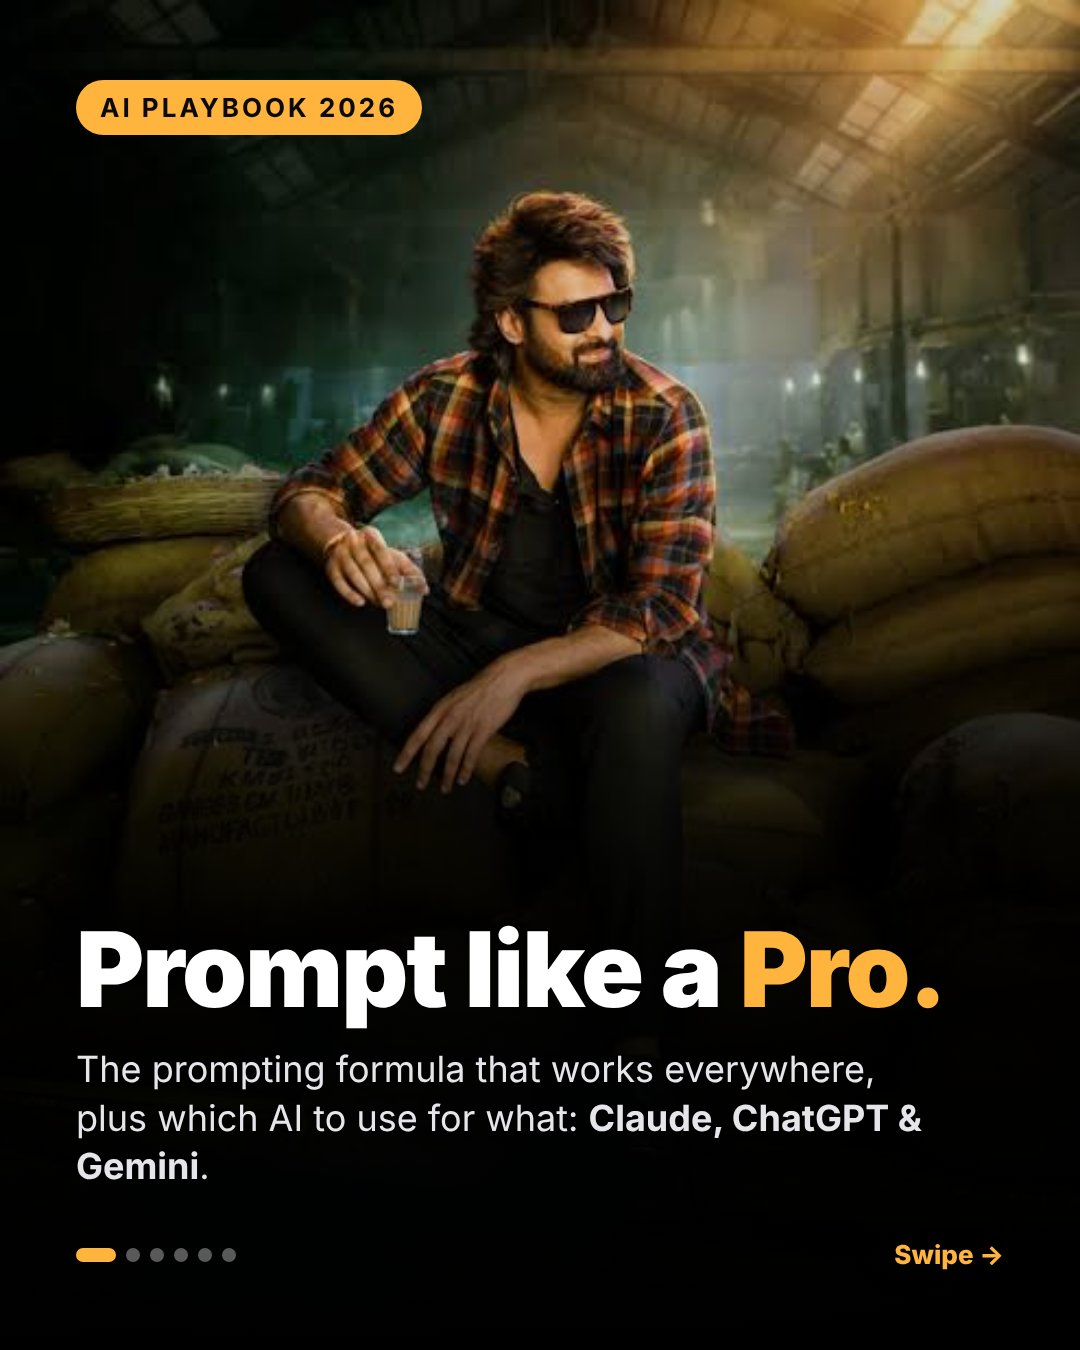
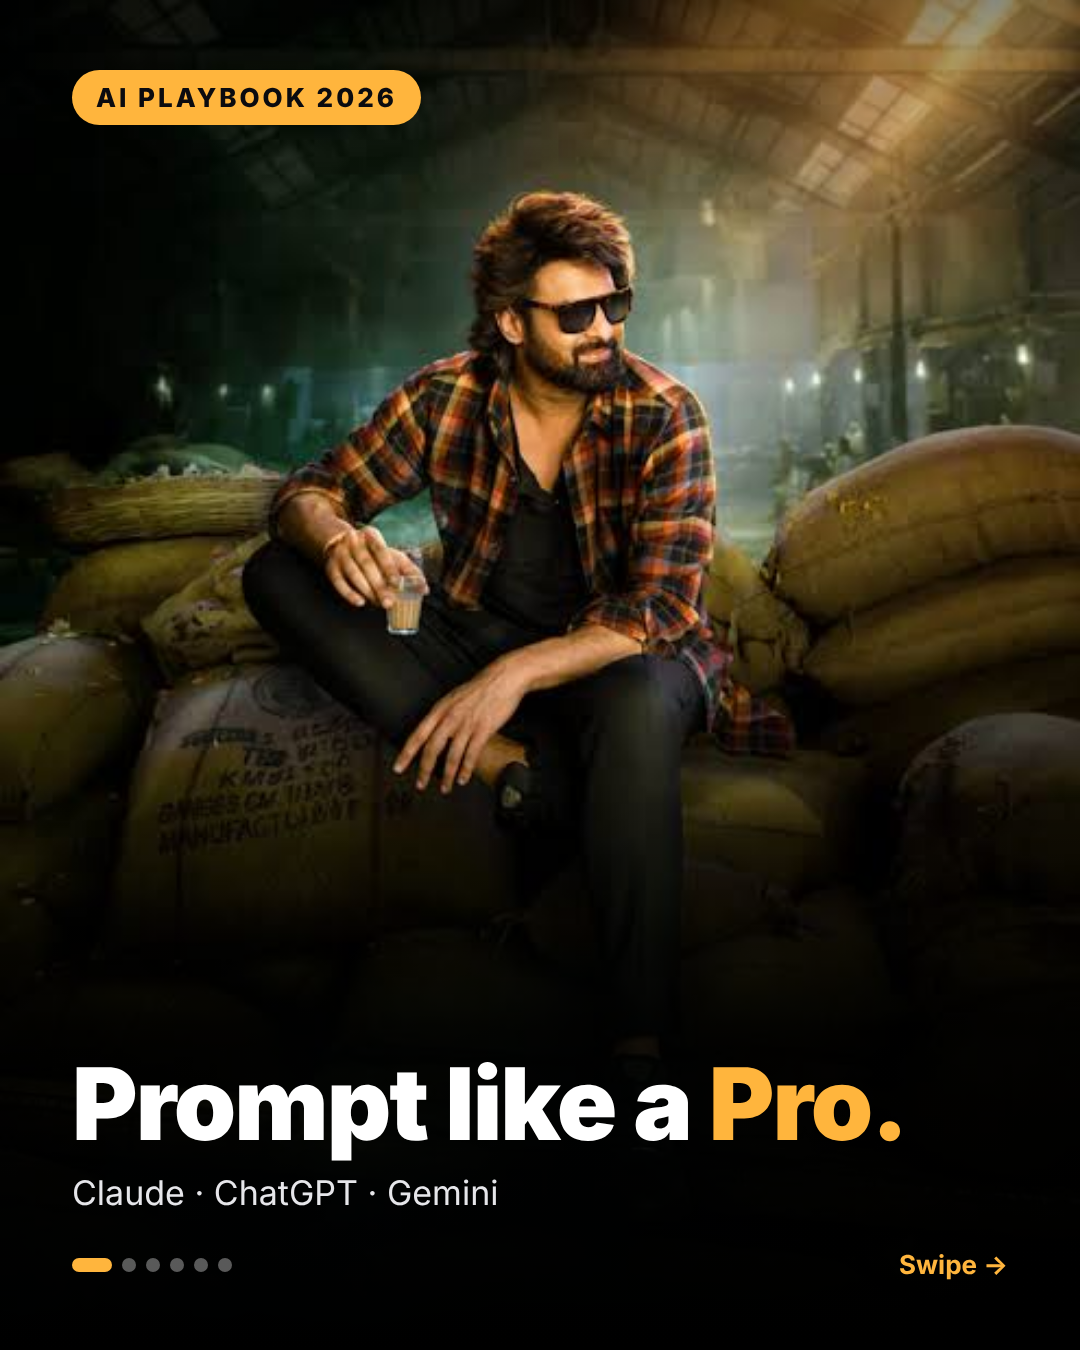
Carousel: shorten text and move it to the bottom so faces stay visible
Claude-Session: https://claude.ai/code/session_01WMA397VEfozkovtyzdFbRr

diff --git a/carousel/index.html b/carousel/index.html
@@ -10,181 +10,112 @@
   .deck { display: flex; flex-direction: column; align-items: center; gap: 40px; padding: 40px 0; }
   body.export .deck { padding: 0; gap: 0; }
 
-  .slide {
-    width: 1080px; height: 1350px; position: relative; overflow: hidden;
-    background-size: cover; background-position: center; background-color: #111;
-  }
-  .slide::before { content: ""; position: absolute; inset: 0; background: var(--shade); }
-  .inner { position: absolute; inset: 0; padding: 80px 76px; display: flex; flex-direction: column; }
+  .slide { width: 1080px; height: 1350px; position: relative; overflow: hidden;
+           background-size: cover; background-position: center; background-color: #111; }
+  /* Photo stays clear on top; only the bottom ~30% darkens for text */
+  .slide::before { content: ""; position: absolute; inset: 0;
+    background: linear-gradient(180deg, rgba(0,0,0,.45) 0%, rgba(0,0,0,0) 14%, rgba(0,0,0,0) 58%, rgba(0,0,0,.85) 76%, #000 100%); }
+  .inner { position: absolute; inset: 0; padding: 70px 72px; display: flex; flex-direction: column; }
 
-  .tag { display: inline-block; align-self: flex-start; font-size: 26px; font-weight: 700; letter-spacing: 3px;
-         text-transform: uppercase; padding: 12px 24px; border-radius: 999px; background: var(--accent); color: #0b0b0f; }
-  h1 { font-size: 104px; line-height: .98; font-weight: 900; letter-spacing: -2px; margin-top: 28px; }
-  h2 { font-size: 78px; line-height: 1.02; font-weight: 900; letter-spacing: -1.5px; margin-top: 24px; }
+  .tag { align-self: flex-start; font-size: 26px; font-weight: 800; letter-spacing: 3px; text-transform: uppercase;
+         padding: 12px 24px; border-radius: 999px; background: var(--accent); color: #0b0b0f; }
+  .bottom { margin-top: auto; }
+  h1 { font-size: 100px; line-height: 1; font-weight: 900; letter-spacing: -2px; }
+  h2 { font-size: 76px; line-height: 1.02; font-weight: 900; letter-spacing: -1.5px; }
   .accent { color: var(--accent); }
-  .sub { font-size: 36px; line-height: 1.35; color: #e6e6ea; margin-top: 24px; max-width: 880px; }
+  .sub { font-size: 34px; color: #e6e6ea; margin-top: 18px; }
 
-  .card { background: rgba(10,10,14,.78); border: 1.5px solid rgba(255,255,255,.14); border-radius: 28px;
-          padding: 36px 40px; backdrop-filter: blur(8px); }
-  .card h3 { font-size: 30px; letter-spacing: 2px; text-transform: uppercase; color: var(--accent); margin-bottom: 18px; }
-  .card ul { list-style: none; }
-  .card li { font-size: 32px; line-height: 1.35; padding: 8px 0 8px 44px; position: relative; }
-  .card li::before { content: "✦"; position: absolute; left: 0; color: var(--accent); }
-  .prompt { font-family: "JetBrains Mono", Consolas, monospace; font-size: 27px; line-height: 1.5; color: #f3f3f6;
-            background: rgba(255,255,255,.07); border-left: 6px solid var(--accent); border-radius: 12px; padding: 22px 26px; }
+  .chips { display: flex; flex-wrap: wrap; gap: 14px; margin-top: 26px; }
+  .chips span { font-size: 30px; font-weight: 700; padding: 14px 24px; border-radius: 999px;
+                background: rgba(255,255,255,.1); border: 2px solid var(--accent); }
+  .chips b { color: var(--accent); margin-right: 8px; }
 
-  .footer { margin-top: auto; display: flex; justify-content: space-between; align-items: center;
-            font-size: 26px; color: #cfcfd6; font-weight: 600; }
+  .footer { margin-top: 36px; display: flex; justify-content: space-between; align-items: center;
+            font-size: 26px; font-weight: 700; }
   .dots { display: flex; gap: 10px; }
   .dots i { width: 14px; height: 14px; border-radius: 50%; background: rgba(255,255,255,.35); }
   .dots i.on { background: var(--accent); width: 40px; border-radius: 999px; }
-  .swipe { color: var(--accent); font-weight: 800; }
-
-  .formula { display: grid; grid-template-columns: 1fr; gap: 14px; }
-  .step { display: flex; align-items: center; gap: 24px; background: rgba(10,10,14,.78);
-          border: 1.5px solid rgba(255,255,255,.14); border-radius: 22px; padding: 20px 28px; }
-  .step b { font-size: 34px; min-width: 64px; height: 64px; border-radius: 16px; display: grid; place-items: center;
-            background: var(--accent); color: #0b0b0f; }
-  .step span { font-size: 31px; line-height: 1.3; }
-  .step span strong { color: var(--accent); }
-
-  .grid { display: grid; grid-template-columns: 1fr 1fr; gap: 18px; }
-  .cat { background: rgba(10,10,14,.82); border: 1.5px solid rgba(255,255,255,.14); border-radius: 22px; padding: 24px 26px; }
-  .cat .k { font-size: 24px; letter-spacing: 2px; text-transform: uppercase; color: var(--accent); font-weight: 800; }
-  .cat .v { font-size: 30px; font-weight: 700; margin-top: 8px; line-height: 1.3; }
+  .swipe { color: var(--accent); }
 </style>
 </head>
 <body>
 <div class="deck">
 
   <!-- 1 · COVER -->
-  <section class="slide" style="background-image:url(images/1.jpg); --accent:#ffb53d;
-    --shade:linear-gradient(180deg, rgba(0,0,0,.15) 0%, rgba(0,0,0,.1) 40%, rgba(0,0,0,.88) 72%, #000 100%);">
+  <section class="slide" style="background-image:url(images/1.jpg); --accent:#ffb53d;">
     <div class="inner">
       <span class="tag">AI Playbook 2026</span>
-      <div style="margin-top:auto">
+      <div class="bottom">
         <h1>Prompt like a <span class="accent">Pro.</span></h1>
-        <p class="sub">The prompting formula that works everywhere, plus which AI to use for what: <b>Claude, ChatGPT & Gemini</b>.</p>
+        <p class="sub">Claude · ChatGPT · Gemini</p>
       </div>
-      <div class="footer" style="margin-top:48px">
-        <div class="dots"><i class="on"></i><i></i><i></i><i></i><i></i><i></i></div>
-        <span class="swipe">Swipe →</span>
-      </div>
+      <div class="footer"><div class="dots"><i class="on"></i><i></i><i></i><i></i><i></i><i></i></div><span class="swipe">Swipe →</span></div>
     </div>
   </section>
 
   <!-- 2 · FORMULA -->
-  <section class="slide" style="background-image:url(images/2.jpg); --accent:#7cf0c5;
-    --shade:linear-gradient(180deg, rgba(0,0,0,.82) 0%, rgba(0,0,0,.55) 35%, rgba(0,0,0,.35) 55%, rgba(0,0,0,.9) 100%);">
+  <section class="slide" style="background-image:url(images/2.jpg); background-position:center 30%; --accent:#7cf0c5;">
     <div class="inner">
       <span class="tag">Skill #1</span>
-      <h2>The 5-part <span class="accent">prompt formula</span></h2>
-      <div class="formula" style="margin-top:auto">
-        <div class="step"><b>1</b><span><strong>Role</strong>: "Act as a senior marketer…"</span></div>
-        <div class="step"><b>2</b><span><strong>Task</strong>: say exactly what you want done</span></div>
-        <div class="step"><b>3</b><span><strong>Context</strong>: audience, goal, background</span></div>
-        <div class="step"><b>4</b><span><strong>Format</strong>: table, bullets, 100 words…</span></div>
-        <div class="step"><b>5</b><span><strong>Constraints</strong>: tone, dos & don'ts, examples</span></div>
+      <div class="bottom">
+        <h2>The <span class="accent">prompt formula</span></h2>
+        <div class="chips">
+          <span><b>1</b>Role</span><span><b>2</b>Task</span><span><b>3</b>Context</span>
+          <span><b>4</b>Format</span><span><b>5</b>Rules</span>
+        </div>
       </div>
-      <div class="footer" style="margin-top:36px">
-        <div class="dots"><i></i><i class="on"></i><i></i><i></i><i></i><i></i></div>
-        <span>Vague in = vague out</span>
-      </div>
+      <div class="footer"><div class="dots"><i></i><i class="on"></i><i></i><i></i><i></i><i></i></div><span class="swipe">Vague in = vague out</span></div>
     </div>
   </section>
 
   <!-- 3 · CLAUDE -->
-  <section class="slide" style="background-image:url(images/3.jpg); background-position: 30% center; --accent:#e8946a;
-    --shade:linear-gradient(90deg, rgba(0,0,0,0) 0%, rgba(0,0,0,.2) 35%, rgba(0,0,0,.85) 100%), linear-gradient(180deg, rgba(0,0,0,0) 45%, rgba(0,0,0,.92) 100%);">
+  <section class="slide" style="background-image:url(images/3.jpg); background-position:center 15%; --accent:#e8946a;">
     <div class="inner">
-      <span class="tag" style="align-self:flex-end">Tool · Claude</span>
-      <h2 style="text-align:right">Use <span class="accent">Claude</span> for<br>deep work</h2>
-      <div style="margin-top:auto; display:flex; flex-direction:column; gap:22px">
-        <div class="card">
-          <h3>Best for</h3>
-          <ul>
-            <li>Writing, editing & a natural tone</li>
-            <li>Coding & debugging (Claude Code)</li>
-            <li>Long PDFs, contracts & reports</li>
-          </ul>
-        </div>
-        <div class="prompt">Pro tip: wrap your inputs in tags.<br>"Summarise &lt;report&gt;…&lt;/report&gt; in 5 bullets for a CEO."</div>
+      <span class="tag">Tool · Claude</span>
+      <div class="bottom">
+        <h2><span class="accent">Claude</span> = deep work</h2>
+        <div class="chips"><span>✍ Writing</span><span>💻 Coding</span><span>📄 Long docs</span></div>
       </div>
-      <div class="footer" style="margin-top:32px">
-        <div class="dots"><i></i><i></i><i class="on"></i><i></i><i></i><i></i></div>
-        <span class="swipe">Next: ChatGPT →</span>
-      </div>
+      <div class="footer"><div class="dots"><i></i><i></i><i class="on"></i><i></i><i></i><i></i></div><span class="swipe">Next →</span></div>
     </div>
   </section>
 
   <!-- 4 · CHATGPT -->
-  <section class="slide" style="background-image:url(images/4.jpg); background-size:1080px auto; background-position:center top; --accent:#5be3a0;
-    --shade:linear-gradient(180deg, rgba(0,0,0,.8) 0%, rgba(0,0,0,.35) 30%, rgba(0,0,0,.45) 50%, rgba(0,0,0,.95) 100%);">
+  <section class="slide" style="background-image:url(images/4.jpg); background-size:1080px auto; background-position:center top; --accent:#5be3a0;">
     <div class="inner">
       <span class="tag">Tool · ChatGPT</span>
-      <h2>Use <span class="accent">ChatGPT</span> for<br>creative firepower</h2>
-      <div style="margin-top:auto; display:flex; flex-direction:column; gap:22px">
-        <div class="card">
-          <h3>Best for</h3>
-          <ul>
-            <li>Brainstorming & content ideas</li>
-            <li>Image generation & editing</li>
-            <li>Voice chats & custom GPTs</li>
-          </ul>
-        </div>
-        <div class="prompt">Pro tip: ask for options, then refine.<br>"Give 10 hooks for a reel on X. Rate each 1–10 &amp; improve the top 3."</div>
+      <div class="bottom">
+        <h2><span class="accent">ChatGPT</span> = creativity</h2>
+        <div class="chips"><span>💡 Ideas</span><span>🎨 Images</span><span>🎙 Voice</span></div>
       </div>
-      <div class="footer" style="margin-top:32px">
-        <div class="dots"><i></i><i></i><i></i><i class="on"></i><i></i><i></i></div>
-        <span class="swipe">Next: Gemini →</span>
-      </div>
+      <div class="footer"><div class="dots"><i></i><i></i><i></i><i class="on"></i><i></i><i></i></div><span class="swipe">Next →</span></div>
     </div>
   </section>
 
   <!-- 5 · GEMINI -->
-  <section class="slide" style="background-image:url(images/5.jpg); background-size:1080px auto; background-position:center -130px; --accent:#7fb2ff;
-    --shade:linear-gradient(180deg, rgba(0,0,0,.7) 0%, rgba(0,0,0,.1) 28%, rgba(0,0,0,.25) 48%, rgba(0,0,0,.95) 82%);">
+  <section class="slide" style="background-image:url(images/5.jpg); background-size:1080px auto; background-position:center -60px; --accent:#7fb2ff;">
     <div class="inner">
       <span class="tag">Tool · Gemini</span>
-      <h2>Use <span class="accent">Gemini</span> for<br>research & Google</h2>
-      <div style="margin-top:auto; display:flex; flex-direction:column; gap:22px">
-        <div class="card">
-          <h3>Best for</h3>
-          <ul>
-            <li>Live web research (Deep Research)</li>
-            <li>Gmail, Docs, Sheets & Drive</li>
-            <li>YouTube & video understanding</li>
-          </ul>
-        </div>
-        <div class="prompt">Pro tip: point it at your sources.<br>"Using @Gmail, list every deadline from this week as a table."</div>
+      <div class="bottom">
+        <h2><span class="accent">Gemini</span> = research</h2>
+        <div class="chips"><span>🔎 Web</span><span>📧 Gmail & Docs</span><span>▶ YouTube</span></div>
       </div>
-      <div class="footer" style="margin-top:32px">
-        <div class="dots"><i></i><i></i><i></i><i></i><i class="on"></i><i></i></div>
-        <span class="swipe">Cheat sheet →</span>
-      </div>
+      <div class="footer"><div class="dots"><i></i><i></i><i></i><i></i><i class="on"></i><i></i></div><span class="swipe">Next →</span></div>
     </div>
   </section>
 
   <!-- 6 · CHEAT SHEET + CTA -->
-  <section class="slide" style="background-image:url(images/6.jpg); background-position: center top; background-size: auto 62%; background-repeat:no-repeat; --accent:#ffd84d;
-    --shade:linear-gradient(180deg, rgba(0,0,0,.55) 0%, rgba(0,0,0,.05) 18%, rgba(0,0,0,.2) 38%, #0b0b0f 58%);">
+  <section class="slide" style="background-image:url(images/6.jpg); background-size:auto 1350px; background-position:center top; --accent:#ffd84d;">
     <div class="inner">
       <span class="tag">Save this</span>
-      <h2 style="margin-top:auto">The right AI for <span class="accent">every job</span></h2>
-      <div class="grid" style="margin-top:32px">
-        <div class="cat"><div class="k">✍ Writing</div><div class="v">Claude</div></div>
-        <div class="cat"><div class="k">💻 Coding</div><div class="v">Claude Code · ChatGPT</div></div>
-        <div class="cat"><div class="k">🔎 Research</div><div class="v">Gemini · Perplexity</div></div>
-        <div class="cat"><div class="k">🎨 Images</div><div class="v">ChatGPT · Midjourney</div></div>
-        <div class="cat"><div class="k">🎬 Video</div><div class="v">Veo (Gemini) · Runway</div></div>
-        <div class="cat"><div class="k">📊 Slides</div><div class="v">Gamma · Claude</div></div>
-        <div class="cat"><div class="k">📧 Email & Docs</div><div class="v">Gemini in Workspace</div></div>
-        <div class="cat"><div class="k">💡 Ideas</div><div class="v">ChatGPT</div></div>
+      <div class="bottom">
+        <h2>Right AI, <span class="accent">right job</span></h2>
+        <div class="chips">
+          <span><b>Write</b>Claude</span><span><b>Ideas</b>ChatGPT</span>
+          <span><b>Research</b>Gemini</span><span><b>Video</b>Veo · Runway</span>
+        </div>
       </div>
-      <div class="footer" style="margin-top:36px">
-        <div class="dots"><i></i><i></i><i></i><i></i><i></i><i class="on"></i></div>
-        <span class="swipe">♻ Share · 💾 Save · ➕ Follow</span>
-      </div>
+      <div class="footer"><div class="dots"><i></i><i></i><i></i><i></i><i></i><i class="on"></i></div><span class="swipe">💾 Save · ➕ Follow</span></div>
     </div>
   </section>
 
